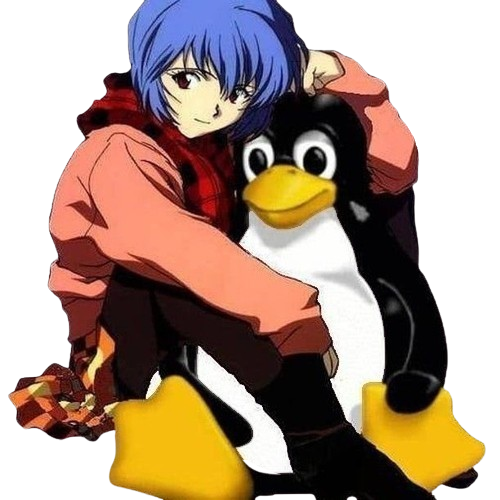
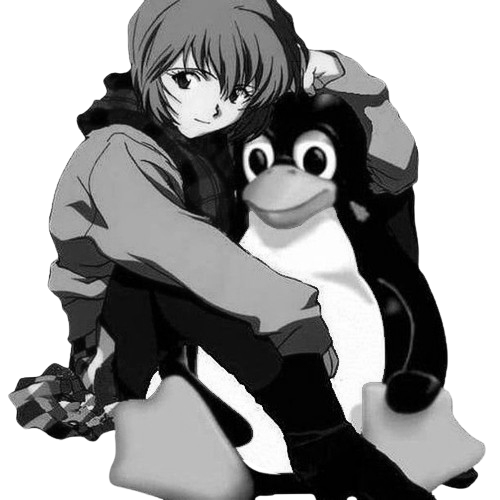
hello world

diff --git a/index.css b/index.css
@@ -8,8 +8,14 @@ body {
   padding-top: 50px;
 
 }
+#effect-1 {
+  position: fixed;
+  left: 0.15%;
+  top: 1%;
+  width: 50%;
+  height: 50%;
+  z-index: 1; }
  .profile {
-    font-family: 'Franklin Gothic Medium', 'Arial Narrow', Arial, sans-serif;
     position: fixed;
     top: 30%;
     left: 10%;
@@ -17,10 +23,10 @@ body {
     height: 40%;
     border-radius: 3px;
     z-index: 10;
-    border-top: solid #ffffff;
-    border-left: solid #ffffff;
-    border-right: solid #ffffff;
-    border-bottom: solid #ffffff;
+    border-top: 0.5px solid #ffffff;
+    border-left: 1px solid #ffffff;
+    border-right: 1px solid #ffffff;
+    border-bottom: 0.5px solid #ffffff;
 
  }
  .profilepic {

diff --git a/index.html b/index.html
@@ -18,6 +18,13 @@
         <h1 class="profiletext"> roomsolo </h1>
         <p class="profiletext">hello, i believe in open source software supremacy! </p>
     </div>
+    <div class="effects">
+      <div class="effects" id="effect-1">
+        <img src="1.jpeg" width="350" height="350">
+      </div>
+
+      </div>
+    </div>
     <div class="topnav" id="myTopnav">
         <a href="#home" class="active">$home</a>
         <a href="#news">$blog</a>
